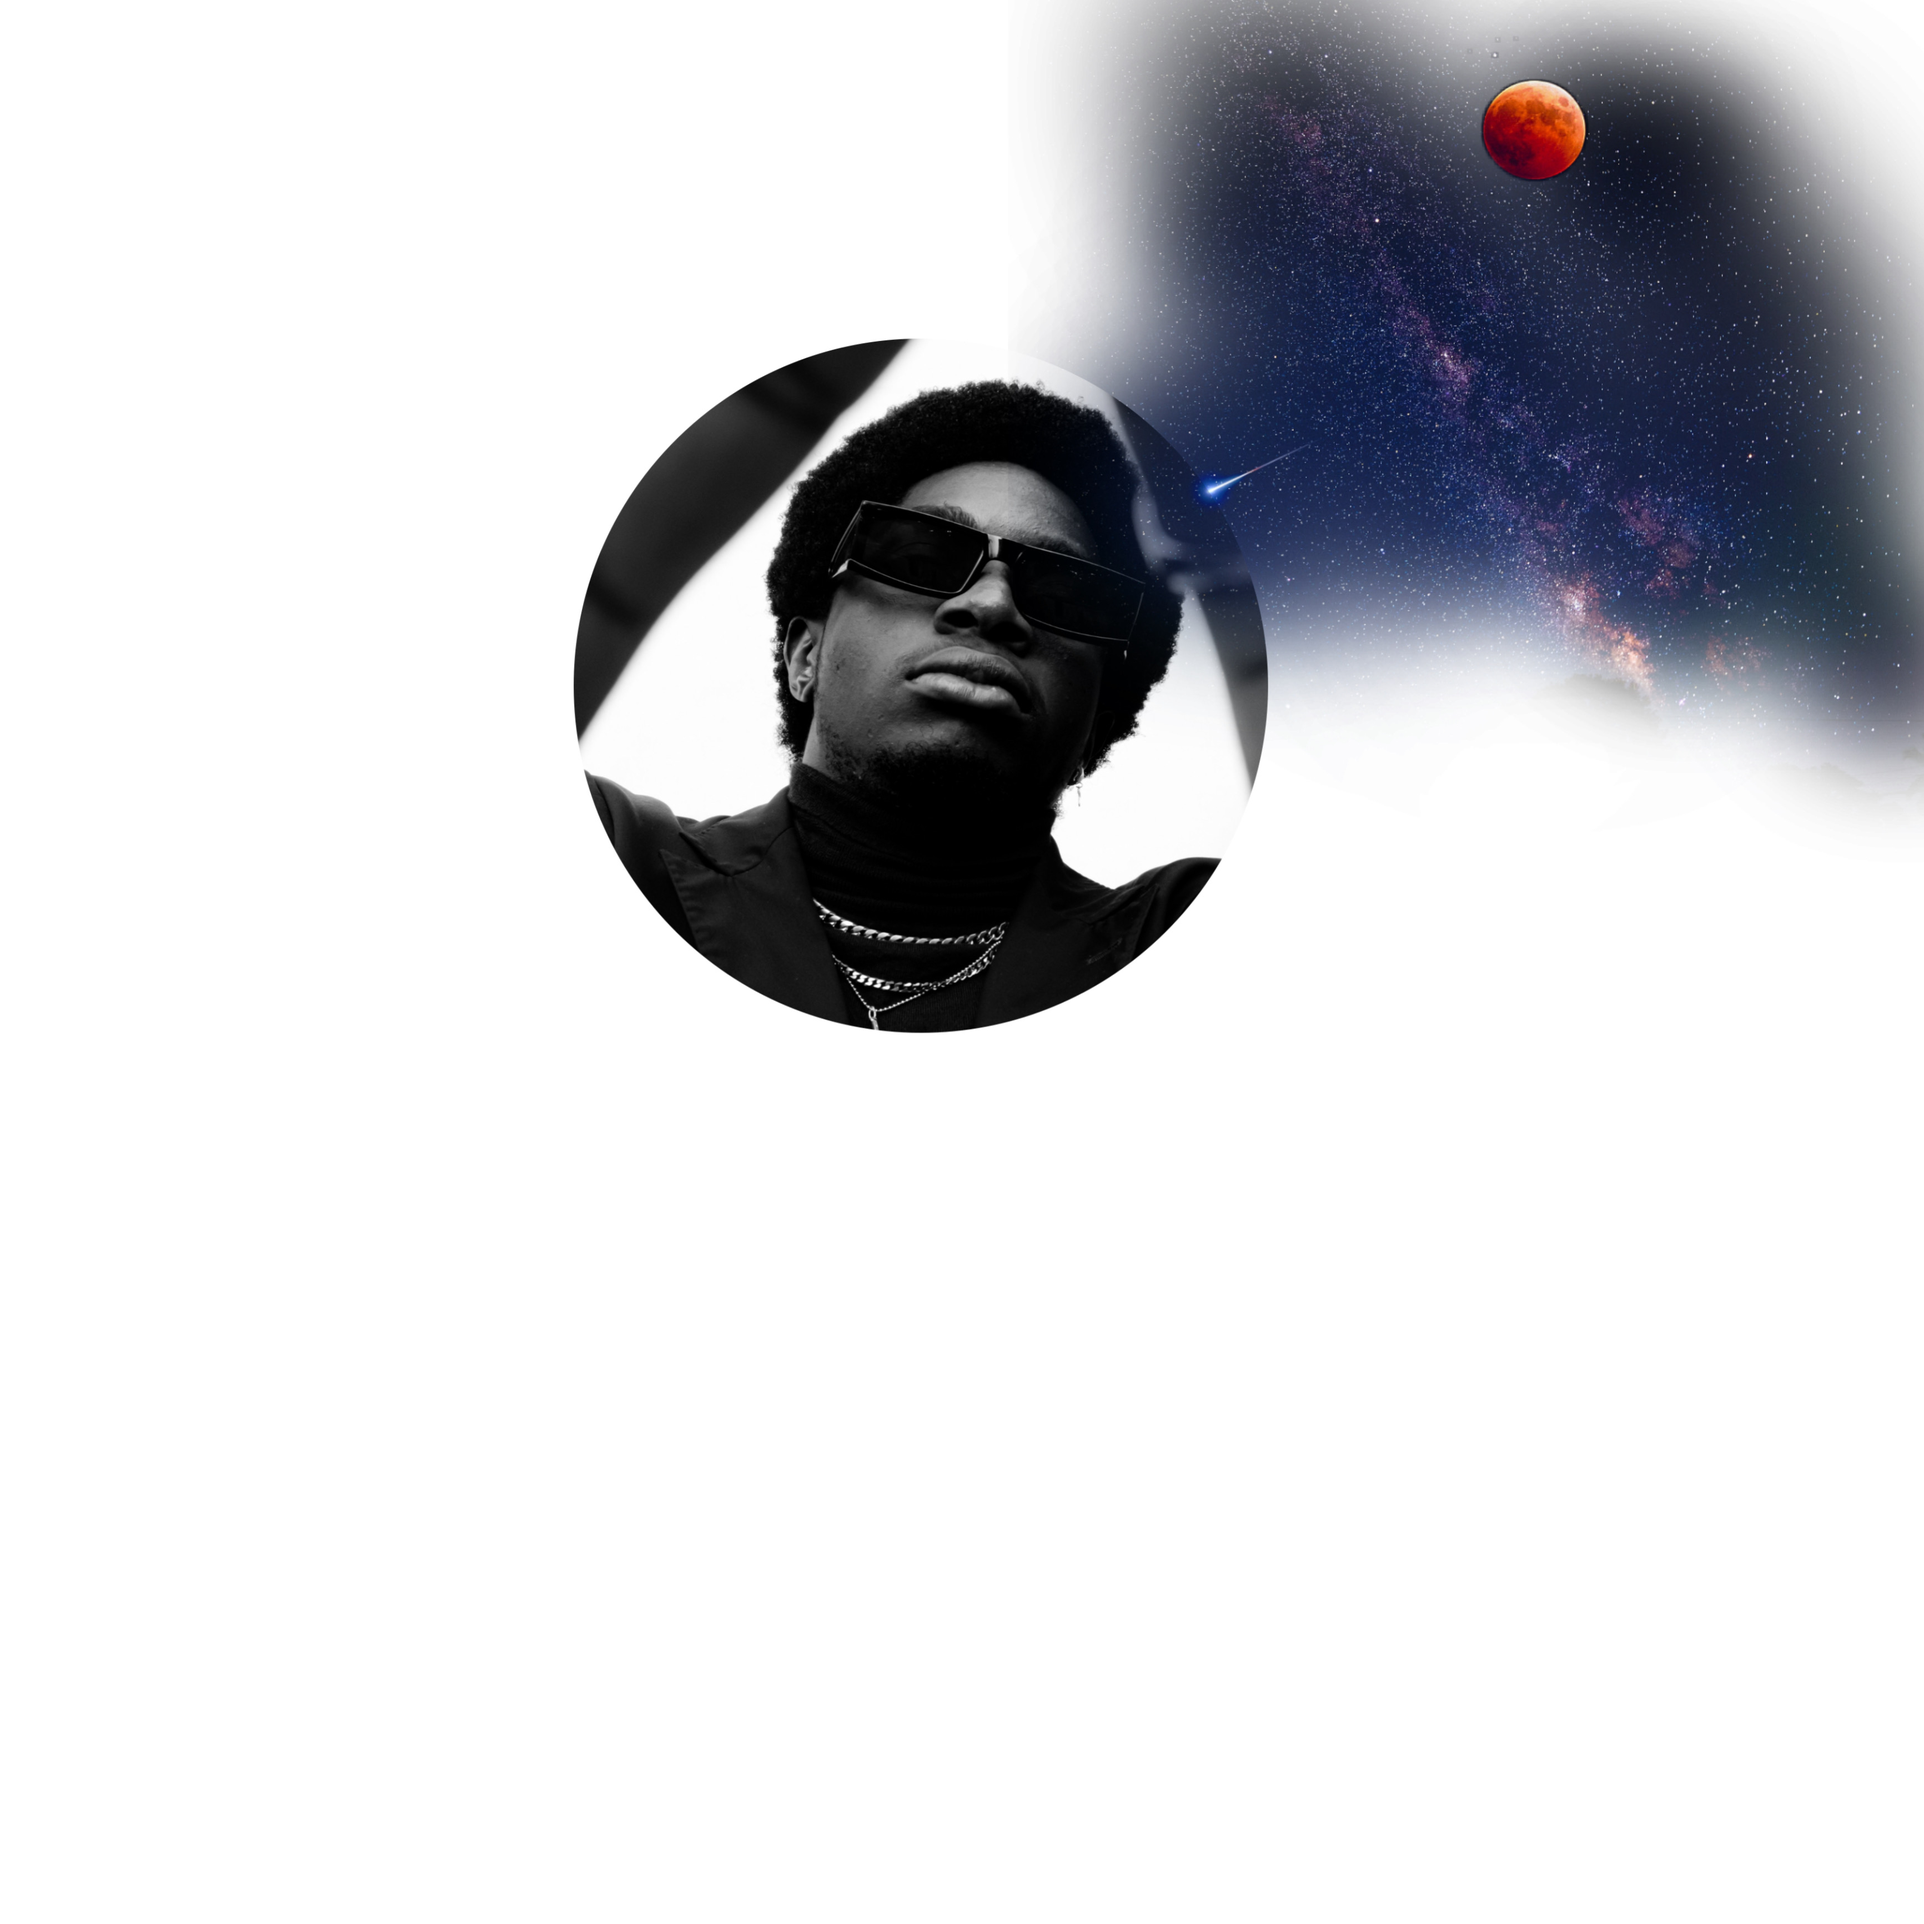
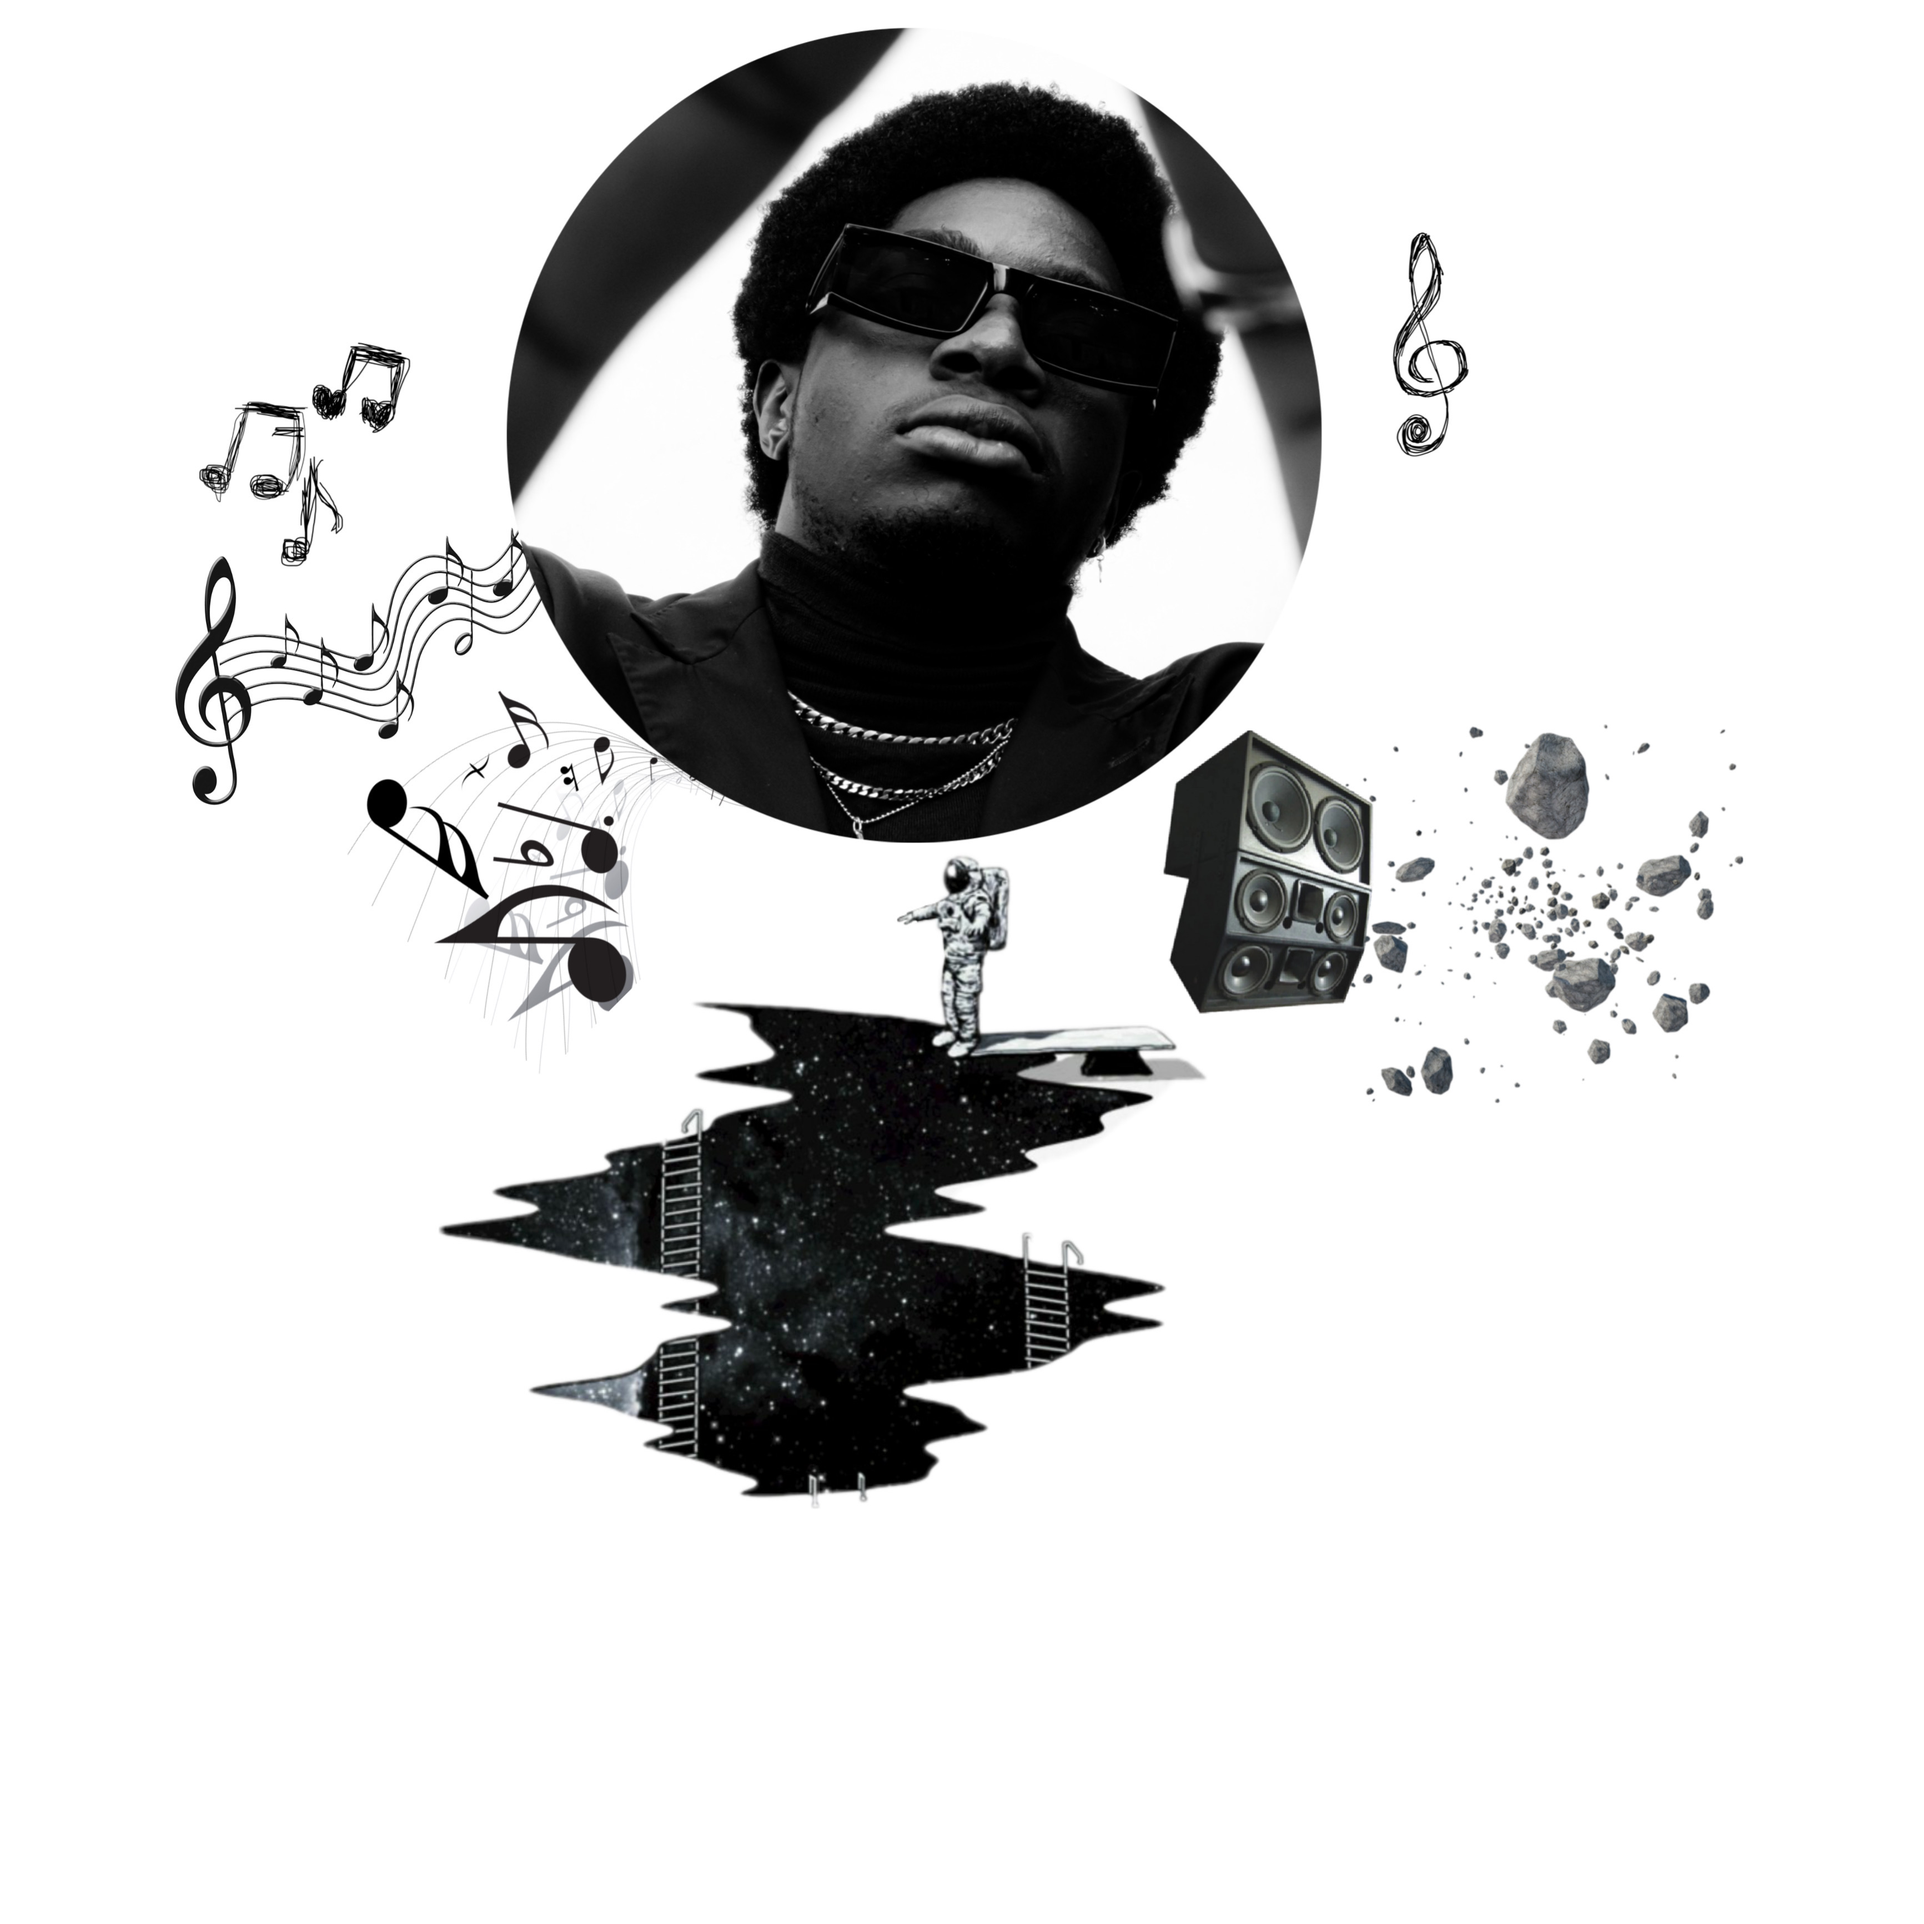
Change home page

diff --git a/css/index.css b/css/index.css
@@ -100,13 +100,19 @@ a.link__page:hover {
 	color: white;
 }
 
-.all__body {
-	/* border: solid red 1px; */
+.all__body__index {
+	border: solid red 1px;
+	/* background-image: url("../image/etoile.jpg");
+	background-repeat: repeat-x;
+	background-position: center;
+	background-size: cover;
+	height: 100%; */
 	width: 100%;
-	/* height: 100%; */
+	height: 100%;
 	display: flex;
 	flex-direction: column;
-	justify-content: flex-start;
+	justify-content: center;
+	align-items: center;
 }
 .smith__image {
 	/* border: solid blue 1px; */
@@ -117,6 +123,7 @@ a.link__page:hover {
 	/* border: solid red 1px; */
 	display: flex;
 	flex-direction: column;
+	/* justify-content: center; */
 	justify-content: flex-start;
 	align-items: center;
 	position: relative;
@@ -139,7 +146,7 @@ a.link__page:hover {
 #bounce__phrase {
 	/* border: solid red 1px; */
 	padding-top: 7%;
-
+	/* color: rgb(255, 255, 255, 0.7); */
 	position: absolute;
 	margin: 0 auto;
 	font-family: "marigold", sans-serif;
@@ -147,11 +154,20 @@ a.link__page:hover {
 	font-size: x-large;
 	animation: smith-cj 3000ms ease-in-out 1000ms infinite;
 }
+/**/
+img.header__image {
+	object-fit: contain;
+	border-radius: 100%;
+	width: 96px;
+	height: 96px;
+	object-position: initial;
+	display: block;
+}
 @media only screen and (min-width: 600px) {
 	body {
-		max-width: 1600px;
+		/* max-width: 1600px; */
 	}
-	.all__body {
+	.all__body__index {
 		/* border: solid red 1px; */
 		width: 100%;
 		/* height: 100%; */
@@ -164,13 +180,7 @@ a.link__page:hover {
 		align-items: center;
 		justify-content: center;
 	}
-	.smith__name {
-		display: flex;
-		flex-direction: column;
-		justify-content: flex-start;
-		align-items: center;
-		position: relative;
-	}
+
 	#fond__acceuil {
 		object-fit: contain;
 		/* border: solid red 1px; */

diff --git a/index.html b/index.html
@@ -48,8 +48,8 @@
 				</div>
 			</div>
 		</div>
-		<div class="header"></div>
-		<div class="all__body">
+		<!-- <div class="header"></div> -->
+		<div class="all__body__index">
 			<div class="smith__image">
 				<img
 					id="fond__acceuil"
@@ -58,13 +58,19 @@
 				/>
 			</div>
 			<div class="smith__name">
-				
 				<img
 					id="dechirure"
 					src="./image/dechirure.png"
 					alt="dechirure"
 				/>
+				<!-- <div class="photo">
+					<img
+						class="header__image"
+						src="image/smith2.png"
+						alt="smith"
+					/> -->
 				<p id="bounce__phrase">Smith CJ</p>
+				<!-- </div> -->
 			</div>
 		</div>
 	</body>

diff --git a/css/music.css b/css/music.css
@@ -5,6 +5,9 @@ html {
 	background-color: #e38334;
 	font-weight: 400;
 }
+.__body {
+	padding: 5px;
+}
 
 div.__header {
 	/* border: solid red 1px; */
